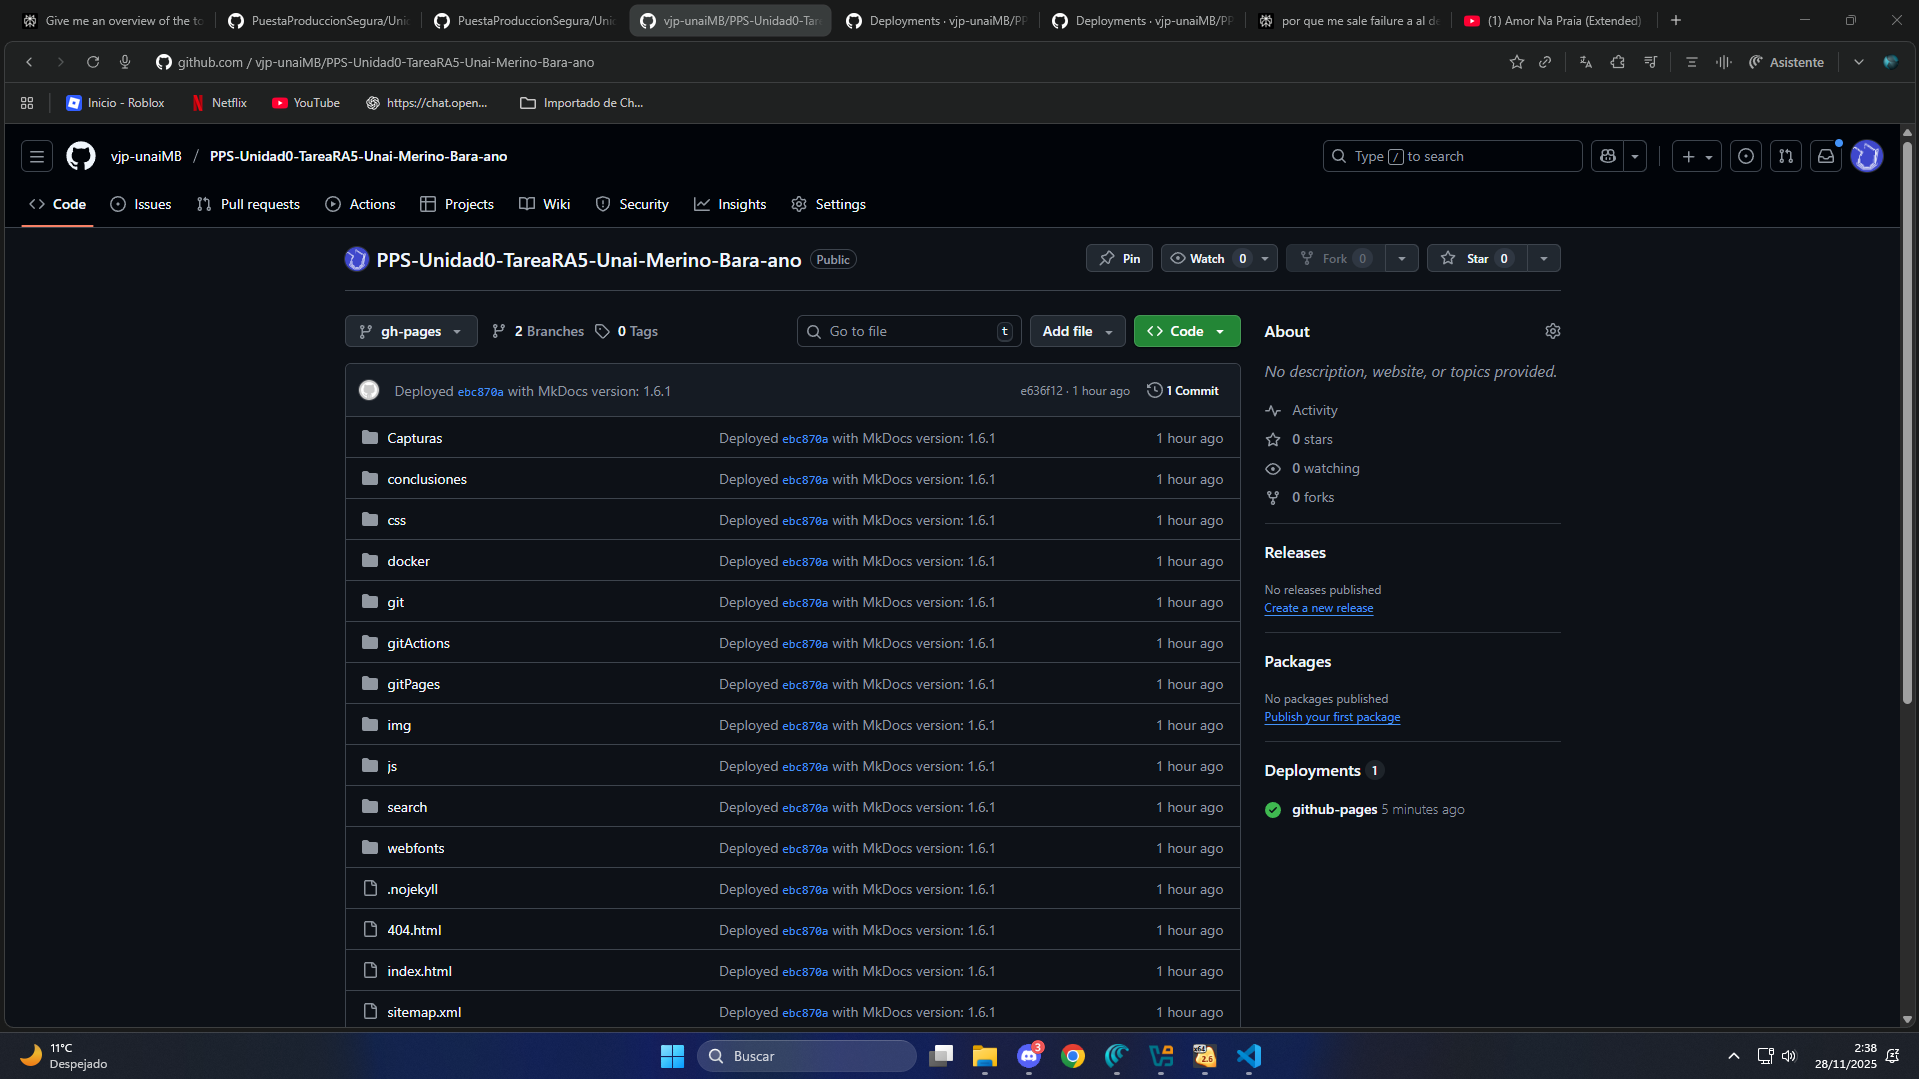
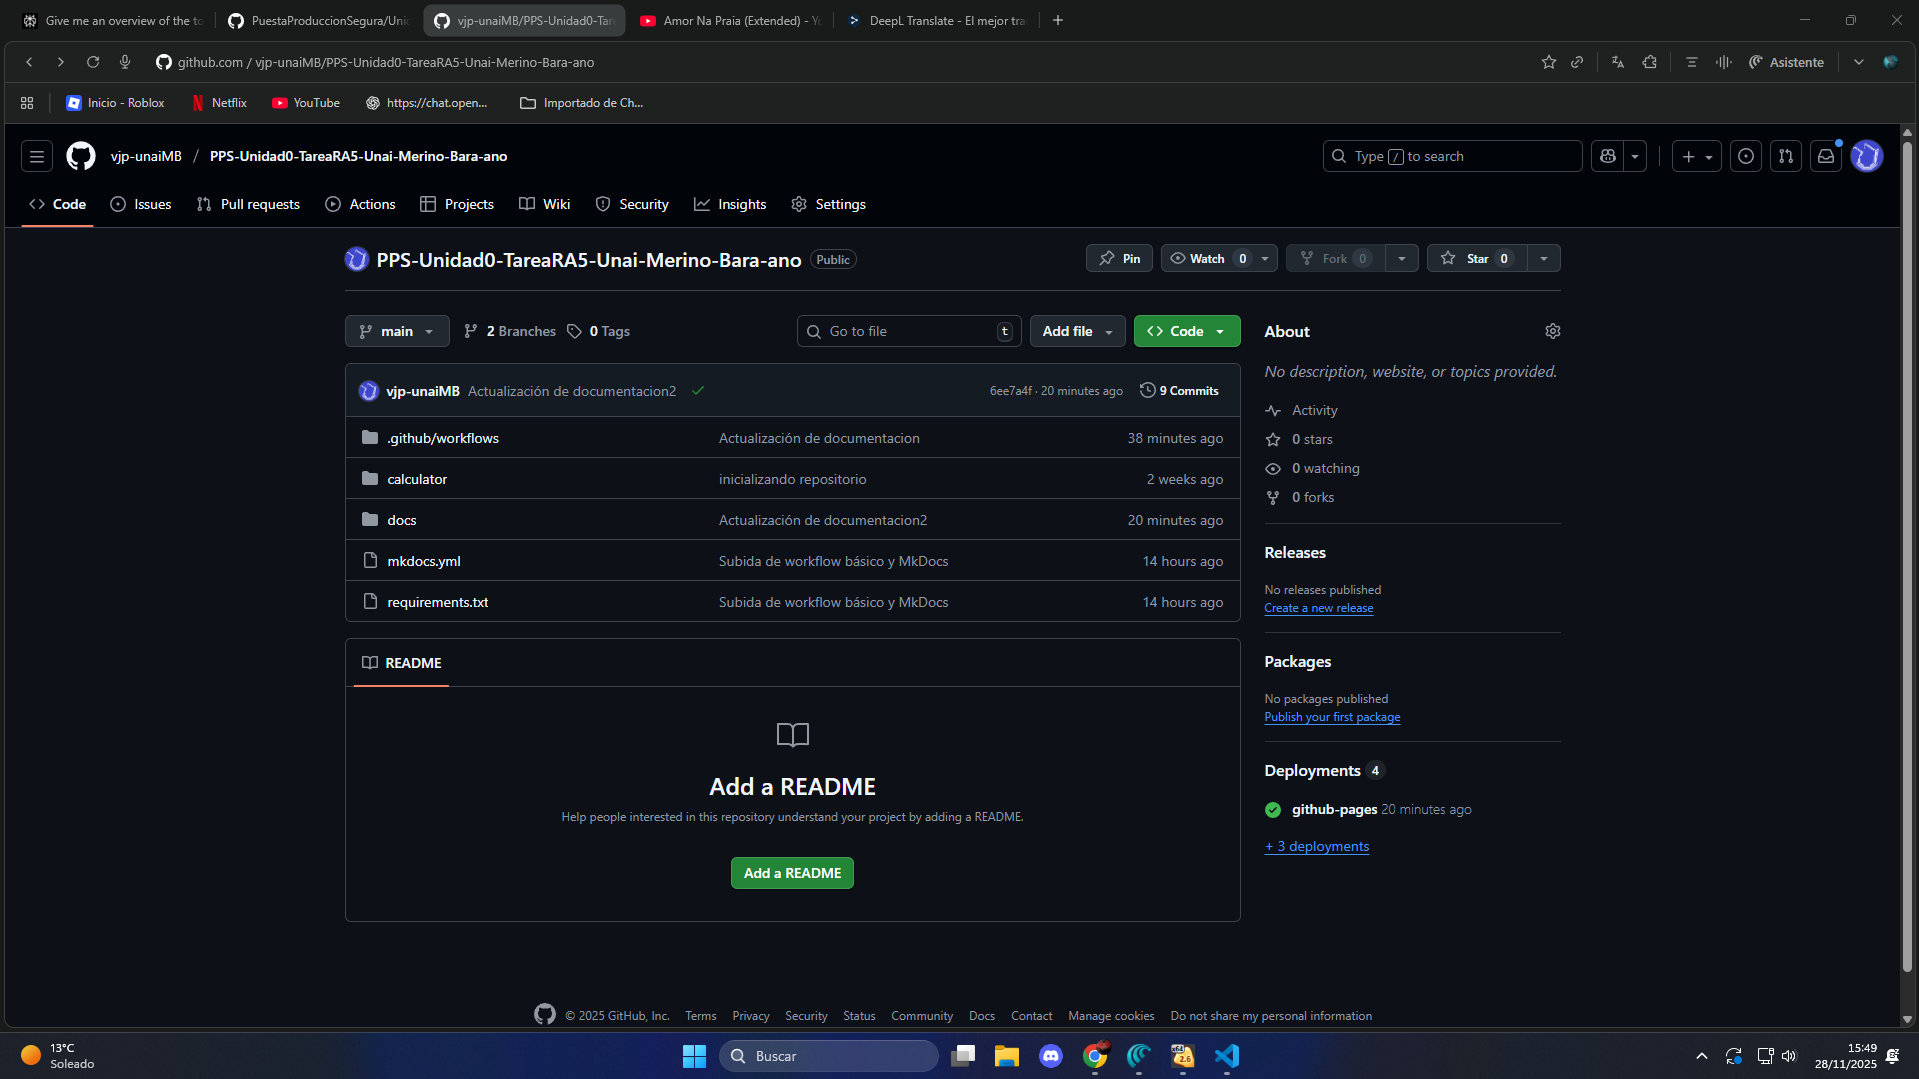
Actualización de documentacion3

diff --git a/docs/docker.md b/docs/docker.md
@@ -1,0 +1,49 @@
+# Docker
+## (Creación y despliegue de documentación mediante contenedor ngynx)
+
+
+Para este apartado ya dispondremos del contenido estático que MkDocs ha generado en gh-pages y lo montaremos en un contenedor NGINX, mediante el puerto 8085.
+
+---
+
+## Paso 1: Preparar la carpeta estática (rama gh-pages)
+En nuestra máquina anfitriona, clonaremos el repo con la rama gh-pages.
+
+`git clone git@github.com:vjp-unaiMB/PPS-Unidad0-TareaRA5-Unai-Merino-Bara-ano.git gh-pages`
+
+![img1](Capturas/docker/cap1.png)
+
+* Como todavía seguimos en la rama main, seguiremos viendo el mismo contenido que en el repositorio original. Antes de cambiar de rama, vamos a configurarlo como repositorio seguro para que no nos de problemas de autenticidad.
+`git config --global --add safe.directory /home/PPSUnai/Desktop/gh-pages`
+
+* Posteriormente, cambiamos de rama mediante checkout. `git checkout -b gh-pages origin/gh-pages`
+
+![img2](Capturas/docker/cap2.png)
+
+Usaremos esta nueva carpeta con los archivos ya visibles de la rama gh-pages para el bind‑mount.
+
+---
+
+## Paso2: Crear el contenedor NGINX.
+
+Para la creación de nuestro contenedor ejecutaremos un comando Docker RUN en el que configuraremos el ***nombre***, el ***puerto 8085*** , un ***binmound*** con nuestra carpeta e indincamos también que usaremos una imágen de Nginx en su última versión.
+
+NGINX sirve estáticos desde /usr/share/nginx/html dentro del contenedor, allí montremos nuestra carpeta con el sitio de MkDocs.
+
+```
+docker run -d 
+  --name PPSUnidad0-Tarea_Unai-Merino 
+  -p 8085:80 
+  -v /ruta/absoluta/a/gh-pages:/usr/share/nginx/html:ro 
+  nginx:latest
+```
+
+![img3](Capturas/docker/cap3.png)
+
+---
+
+## RESULTADO FINAL:
+
+Observamos que se ha desplegado correctamente accediendo mediante el puerto en el naveador.
+
+![img24](Capturas/docker/cap4.png)

diff --git a/docs/gitActions.md b/docs/gitActions.md
@@ -3,6 +3,8 @@
 
 En este apartado añadiremos funcionalidad a nuestro proyecto mediante la configuración de MkDocs y Workflow.
 
+---
+
 ## Paso 1: MkDocs
 
 En este paso agregaremos a nuestro proyecto el fichero `mkdocs.yml` y lo configuraremos para que sirva nuestra documentación.
@@ -10,7 +12,11 @@ En este paso agregaremos a nuestro proyecto el fichero `mkdocs.yml` y lo configu
 * Creamos el fichero ***hijo directo del directorio principal*** `nano mkdocs.yml`
 * Rellenamos el fichero:
 
+En este caso debemos de modificar la variable `site_name` y el listado de secciones `nav`, añadiendo un apartado por documento creado en ***/docs***.
+
 ![img1](Capturas/gitActions-caps/cap1.png)
+
+---
 
 ## Paso 2: Workflow
 
@@ -20,8 +26,13 @@ Nuestro archivo workflow nos permitirá ejecutar una serie de instrucciones al p
 
 * Dentro de la carpeta workflows creamos guardamos el siguiente archivo de configuración para pipeline: `nano /.github/workflows/CreacionDocumentacion.yml`
 
+Este archivo se encargará de construir y ejecutar una serie de instrucciones por cada push creado en la rama gh-pages haciendo así que el proyecto de despliegue. 
+
+> Usaremos el del ejercicio anterior.
+
 ![img2](Capturas/gitActions-caps/cap2.png)
 
+---
 
 ## Paso 3: Confirmar, commitear y hacer push
 
@@ -36,13 +47,15 @@ Una vez aplicados los cambios subimos el contenido al Repositorio Remoto con la 
 
 Se debería de ver el workflow ejecutándose en el último push.
 
+---
+
 ## RESULTADO FINAL:
 
 ***Repositorio Remoto:***
 
 ![img4](Capturas/gitActions-caps/cap4.png)
 
-***Estructura provisional:***
+***Estructura final:***
 
 ```
 PPS-Unidad0-TareaRA5-Unai-Merino-Barañano/

diff --git a/docs/gitPages.md b/docs/gitPages.md
@@ -5,6 +5,8 @@ En este apartado explicaremos los pasos a seguir en nuestro Repositorio Remoto p
 
 Hay que recordar que hemos configurado neustros archivos para que se despliegue nada más hacer un push por lo que comprobaremos también si se ha llevado a cabo.
 
+---
+
 ## Paso 1: Estado del espliegue
 
 Partimos desde la vista general de neustro repositorio en GitHub y nos dirigiremos a la pesatalla acciones del índice superior.
@@ -19,6 +21,7 @@ Al clickar en el segundo commit podemos ver una lista de logs organizada en secc
 
 ![img2](Capturas/gitPages/cap2.png)
 
+---
 
 ## Paso 2: Configuración de Páginas.
 
@@ -30,10 +33,11 @@ Una vez en el sitio sostituiremos 2 valores en la subcategoría ***Branch***.
 
 * ***Primer cuadro*** -> cambiamos de `main` a `gh-pages` porque así se lo hemos indicado en el contenido del Workflow.
 
-* ***Segundo cuadro*** -> cambiamos el directorio de padre de la documentaión `/(root)` .
+* ***Segundo cuadro*** -> cambiamos el directorio de padre de la documentaión `/(root)` a `/docs` porque es desde `/docs` donde tomará los archivos de documentación.
 
 ![img3](Capturas/gitPages/cap3.png)
 
+---
 
 ## Paso 3: Ver Resultado
 
@@ -44,3 +48,11 @@ Volvemos a nuestra vista general del repositiorio `Code` y observamos que abajo 
 Nos aparecerá un recuadro con los últimos despliegues. Si pulsamos en el enlace nos enviará a nuestra página desplegada del proyecto.
 
 ![img5](Capturas/gitPages/cap5.png)
+
+---
+
+RESULTADO FINAL:
+
+Como se peude observar, la página se muestra correctamente.
+
+![img6](Capturas/gitPages/cap6.png)

diff --git a/docs/index.md b/docs/index.md
@@ -1,4 +1,6 @@
-# Actividad obligatoria Unidad 0 -DevSecOps Básico y automatización de Documentación.
+# Actividad Obligatoria 
+
+## Unidad 0 -DevSecOps Básico y automatización de Documentación.
 
 ### Autor:  `Unai Merino Barañano`
 
@@ -12,20 +14,25 @@
 
 [Entrega](#entrega)
 
+---
 
 ## Objetivos
 
 Esta actividad tiene como objetivo poner en práctica los contenidos tratados en esta unidad:
 
-* Lenguaje de marcas MarkDown.
-* Sistemas de control de versiones: Git.
-* Creación y administración de contenedores: Docker.
-* Ciclos de desarrollo software seguros: * * SecDevOps.
+* Lenguaje de marcas `MarkDown`.
+* Sistemas de control de versiones: `Git`.
+* Creación y administración de contenedores: `Docker`.
+* Ciclos de desarrollo software seguros: `DevSecOps`.
 * Documentación.
+
+---
 
 ## Resultados de aprendizaje y Criterios de Evaluación
 
 Esta actividad se relaciona con el resultado de aprendizaje y criterios de evaluación RA 5 a, b, c y g.
+
+---
 
 ## Desarrollo
 * **Nota importante**
@@ -35,8 +42,10 @@ Documenta explicando claramente los procesos realizados, incluyendo fragmentos d
 
 * Deberás de añadir como colaborador en tu repositorio de GitHub al profesor: PPSvjp Settings > Collaborators.
 
+---
+
 ## Entrega
-### Indicaciones de entrega
+
 Una vez realizada la tarea, el envío se realizará a través de la plataforma. Deberás de entregar al menos:
 
 * El repositorio que has creado, comprimido en un archivo.

diff --git a/docs/git.md b/docs/git.md
@@ -11,7 +11,7 @@ Estando dentro de la máquina kali, comenzaremos la actividad creando una nueva 
 
 Dentro de esta carpeta organizaremos nuestros archivos y alojaremos el repositorio de GIT local de este proyecto.
 
-
+---
 
 ## Paso 1: Reutilización de material.
 
@@ -28,6 +28,8 @@ PPS-Unidad0-TareaRA5-Unai-Merino-Barañano
 │   └── gui.py  
 └──  docs/  
 ```
+
+---
 
 ## Paso 2: Inicialización de repositorio local.
 
@@ -54,6 +56,8 @@ PPS-Unidad0-TareaRA5-Unai-Merino-Barañano
 └── .git
 ```
 
+---
+
 ## Paso 3: Creación y vinculación con Repositorio Remoto.
 
 Como hemos empezado nuestro proyecto en un repositorio local, no disponemos de repositorio remoto, por lo que en este apartado lo crearemos en github para posteriormente vincularlo a nuestro repositorio local.
@@ -73,6 +77,8 @@ Vinculamos los repositorios remoto y local mediante una ***KEY SSH**, para ello 
 
 ![Img7](Capturas/git-caps/cap7.png)
 
+---
+
 ## Paso 4: Primer Commit & Push al Repositorio Remoto.
 
 Crearemos un primer commit agregando a nuestro directorio una primera versión de la carpeta docs imcompleta pero que irá completandose a medida de que se vaya construyendo cada apartado restante de esta actividad.
@@ -83,6 +89,8 @@ Crearemos un primer commit agregando a nuestro directorio una primera versión d
 
 
 ![Img8](Capturas/git-caps/cap8.png)
+
+---
 
 ## RESULTADO FINAL:
 

diff --git a/docs/conclusiones.md b/docs/conclusiones.md
@@ -8,8 +8,10 @@
 
 * La aplicación de páginas interactivas de GitHub es una modalidad muy interesante para emular nuestro trabajo producido, y que en mi caso como ex alumno de DAW nunca habíamos empleado.
 
+---
+
 ## Método a seguir respecto a la documentación.
 
-En mi caso para documentar he empleado Visual-Studio junto a la opción de emular el acabado final de los documentos para garantizar que no ocurran errores, así mismo estos documentos los he creado junto a la carpeta imágenes dentro de la carpeta DOCS, que luego importaré dentro de la carpeta del proyecto a desplegar, haciendo todo el proceso de documentación mucho más sencillo pudiendo integrarlo solo con mover una carpeta al repositorio local de esta actividad en KALI.
+En mi caso para documentar he empleado Visual-Studio junto a la opción de emular el acabado final de los documentos para garantizar que no ocurran errores, así mismo estos documentos los he creado junto a la carpeta imágenes dentro de la carpeta DOCS, que luego importaré dentro de la carpeta del proyecto a desplegar, haciendo todo el proceso de documentación mucho más sencillo y pudiendo integrarlo solo con mover una carpeta al repositorio local de esta actividad en KALI.
 
-![Captura0](/Capturas/cap1.png)
+![img1](/Capturas/conclusiones/cap1.png)
